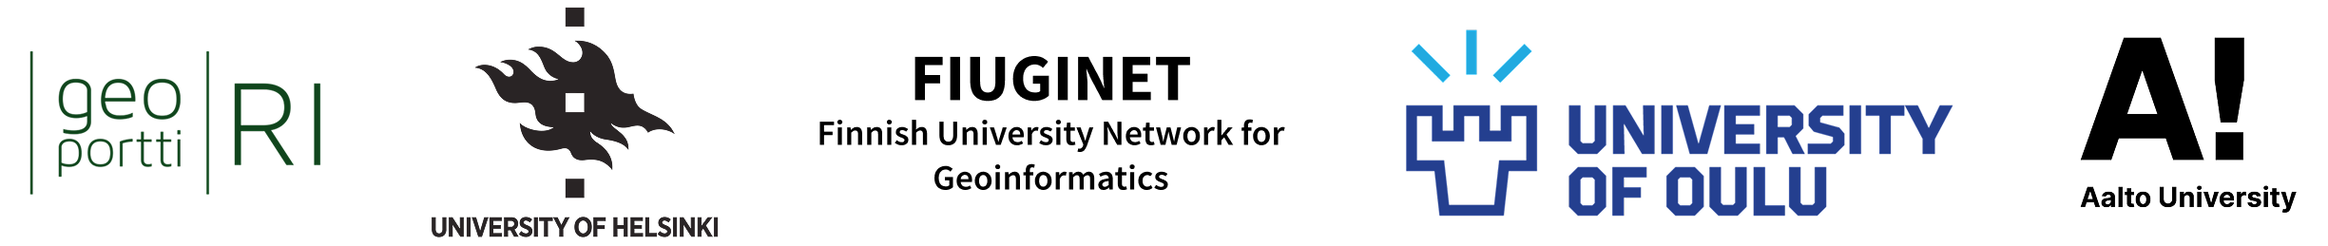
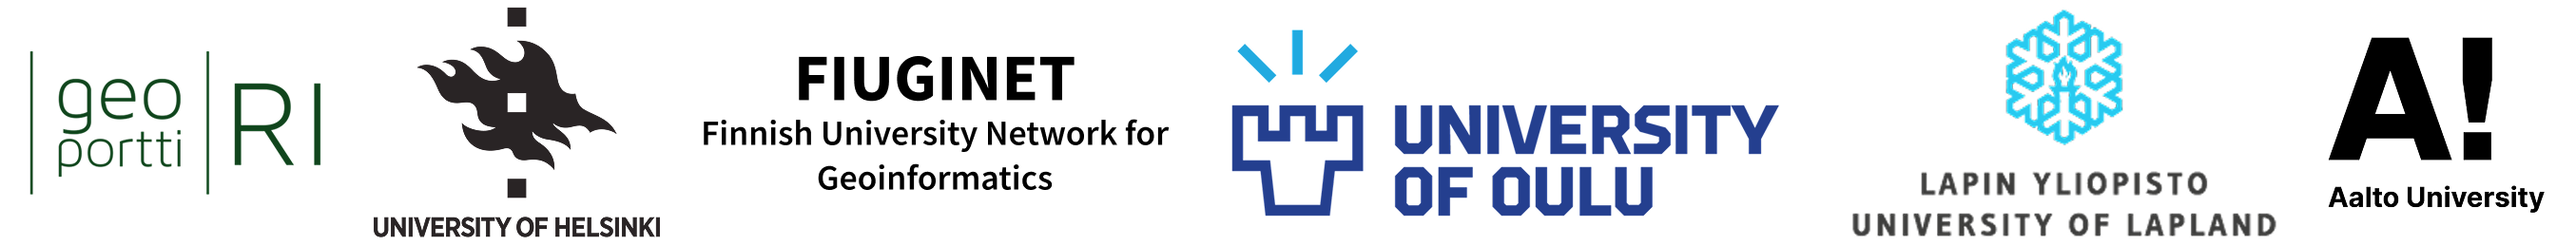
Update info + sponsors

diff --git a/source/index.rst b/source/index.rst
@@ -272,7 +272,13 @@ Practical Information
 ==============
 This is a free conference. Please note:
 
-- **Meals & refreshments:** Coffee/tea breaks are scheduled, but lunch is not provided. Attendees are welcome to bring their own food or explore nearby dining options.
+- **Meals & refreshments:** Coffee/tea breaks are scheduled throughout the day. Lunch is not provided, but attendees are welcome to bring their own food or explore several dining options within walking distance. 
+- **Lunch break:** 12:00-13:00. We recommend checking menus ahead of time, as the 1-hour break is tight. 
+- **A few suggestions for lunch places:**
+   - `Porthania UniCafe <https://unicafe.fi/en/restaurants/porthania/>`_ in the same building, 2nd floor
+   - `Think Corner Cafe <https://www.helsinki.fi/en/think-corner/services/think-corner-cafe/>`_ across the street from Porthania
+   - `Kluuvi <https://www.kluuvi.fi/en/restaurants-and-cafes/>`_ across the streetn from Porthania, next to Think Corner
+   - **More options:** Aleksanterinkatu and Mikonkatu areas nearby have many restaurants.
 - **Accommodation & travel:** No support is provided. For visitor information and local recommendations, see the `University of Helsinki Visitor Guide <https://www.helsinki.fi/en/about-us/visit-us/guide-visitors>`_.
 
 
